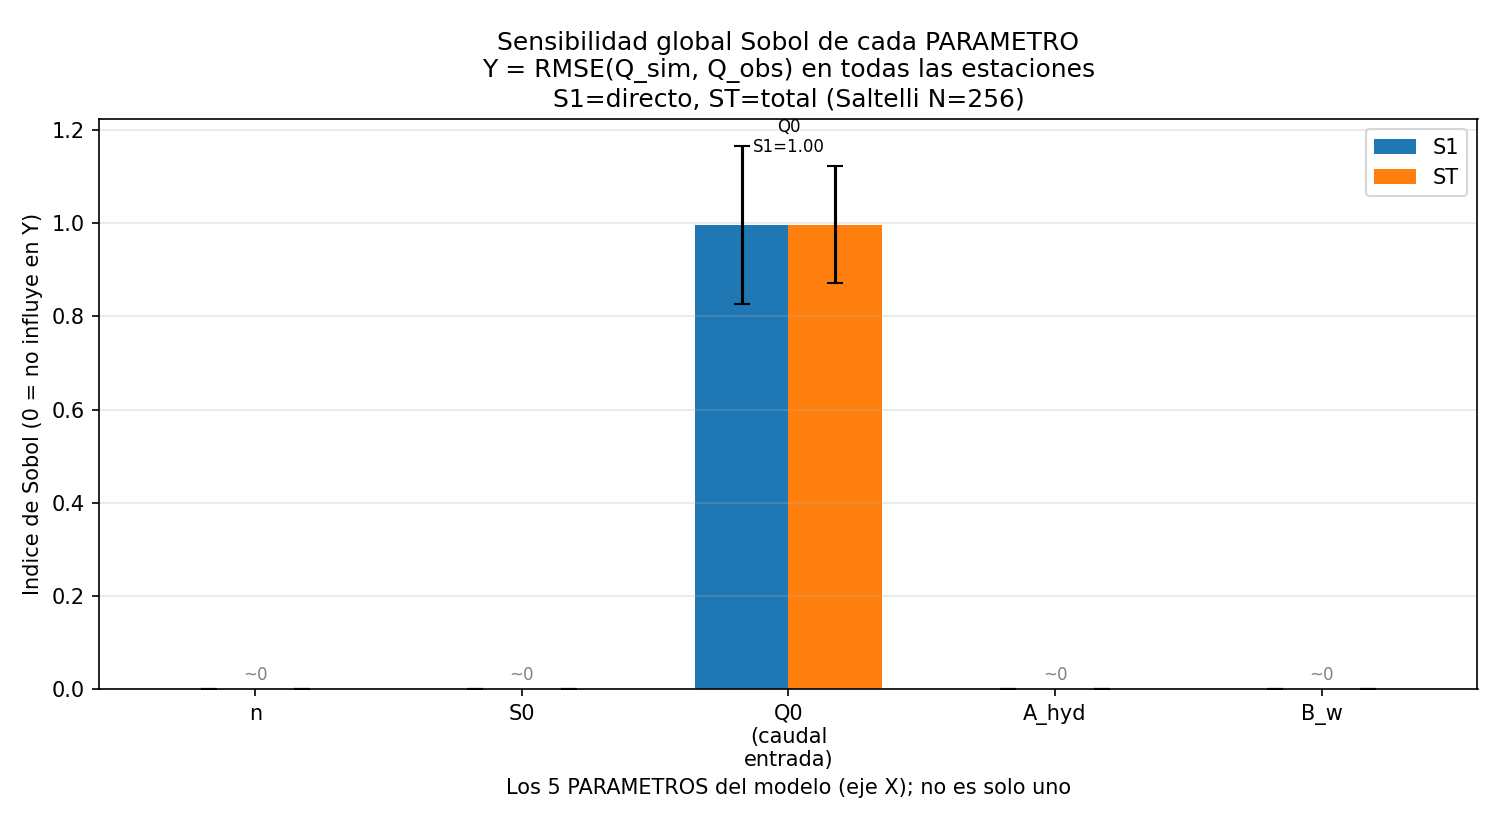
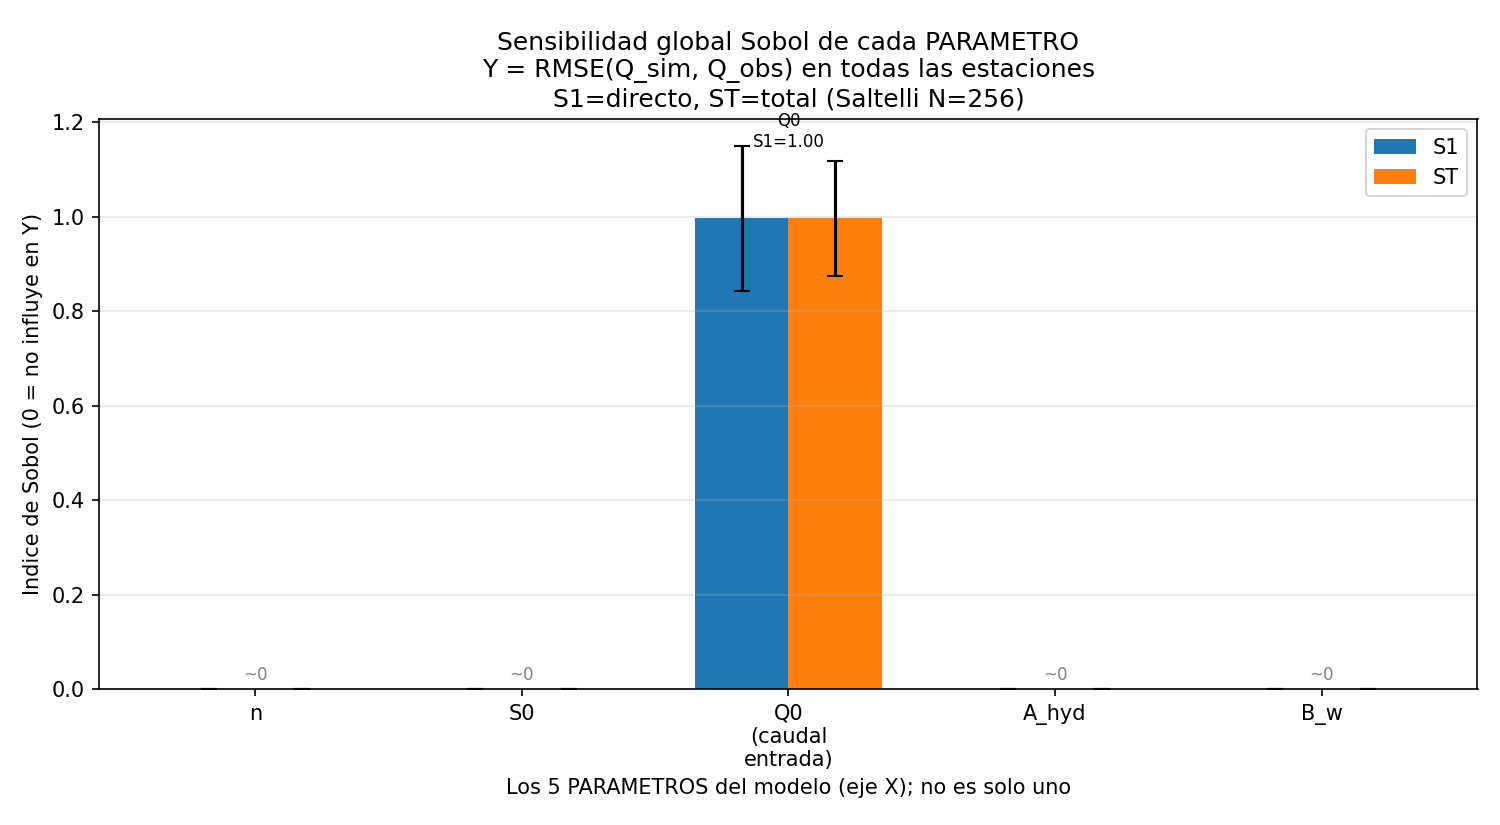
sensibilidad global y local

diff --git a/run_part1.py b/run_part1.py
@@ -2,7 +2,8 @@
 """
 Atajo: ejecuta la Parte 1.
 
-Uso::
+Uso (desde la raiz del proyecto):
+    python run_part1.py
     python run_part1.py --monte-carlo 100 --jobs 4
 
 El codigo principal esta en: scripts/run_part1.py
@@ -13,12 +14,28 @@ import runpy
 import sys
 from pathlib import Path
 
+ROOT = Path(__file__).resolve().parent
+
+try:
+    import numpy as np
+except ModuleNotFoundError:
+    venv_py = ROOT / ".venv" / "Scripts" / "python.exe"
+    print("ERROR: No esta instalado numpy en el Python que uso ahora.")
+    print(f"  Python actual: {sys.executable}")
+    print()
+    print("Solucion (elija una):")
+    print("  1) Doble clic en fix_entorno.bat  (crea .venv e instala paquetes)")
+    print(f"  2) Luego:  {venv_py} run_part1.py")
+    print("  3) PowerShell:")
+    print('       cd "d:\\descagas\\proyecto-hidrosistemas"')
+    print("       .\\.venv\\Scripts\\Activate.ps1")
+    print("       python run_part1.py")
+    raise SystemExit(1) from None
+
 # NumPy 2.x renombro trapz -> trapezoid; model.py usa np.trapz
-import numpy as np
 
 if not hasattr(np, "trapz") and hasattr(np, "trapezoid"):
     np.trapz = np.trapezoid
 
-ROOT = Path(__file__).resolve().parent
 sys.path.insert(0, str(ROOT))
 runpy.run_path(str(ROOT / "scripts" / "run_part1.py"), run_name="__main__")

diff --git a/run_part2.py b/run_part2.py
@@ -5,6 +5,7 @@ Atajo: ejecuta la Parte 2.
 Uso:
     python run_part2.py --bootstrap 300 --sobol-n 256
 
+Codigo principal: scripts/run_part2.py
 """
 from __future__ import annotations
 
@@ -12,12 +13,22 @@ import runpy
 import sys
 from pathlib import Path
 
+ROOT = Path(__file__).resolve().parent
+
+try:
+    import numpy as np
+except ModuleNotFoundError:
+    venv_py = ROOT / ".venv" / "Scripts" / "python.exe"
+    print("ERROR: No esta instalado numpy en el Python que uso ahora.")
+    print(f"  Python actual: {sys.executable}")
+    print("  Ejecute fix_entorno.bat y luego use .venv\\Scripts\\python.exe run_part2.py")
+    raise SystemExit(1) from None
+
 # NumPy 2.x: compatibilidad para src/model.py (np.trapz)
 import numpy as np
 
 if not hasattr(np, "trapz") and hasattr(np, "trapezoid"):
     np.trapz = np.trapezoid
-
 ROOT = Path(__file__).resolve().parent
 sys.path.insert(0, str(ROOT))
 runpy.run_path(str(ROOT / "scripts" / "run_part2.py"), run_name="__main__")